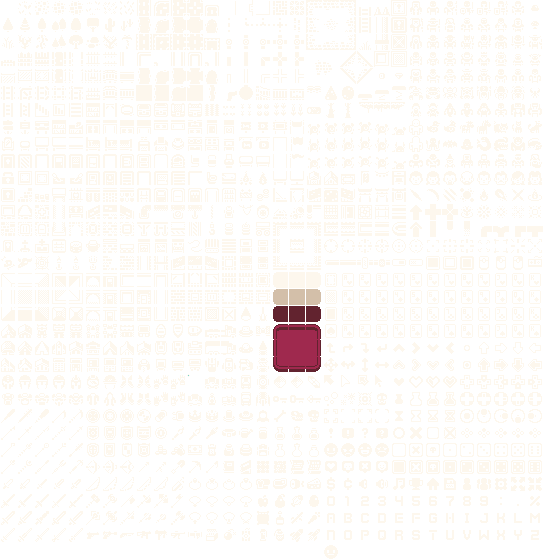
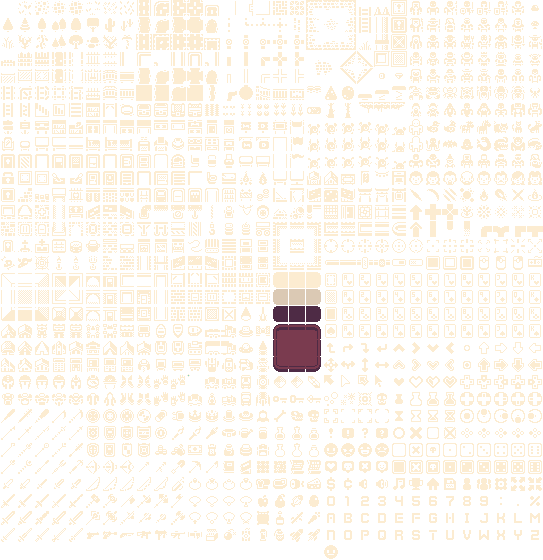
update color enums

Changed region(s): [[0.0, 0.0, 1.0, 1.0]]

diff --git a/src/characters/weapons/StaffWeapon.ts b/src/characters/weapons/StaffWeapon.ts
@@ -45,7 +45,7 @@ export class StaffWeapon extends Weapon {
             this.offsetFromCenter = new Point(-5, 0)
             this.targetSprite1 = Tilesets.instance.oneBit
                 .getTileSource("aoe_target")
-                .filtered(ImageFilters.tint(Color.SUPER_ORANGE))
+                .filtered(ImageFilters.tint(Color.RED_4))
             this.targetSprite2 = Tilesets.instance.oneBit
                 .getTileSource("aoe_target")
                 .filtered(ImageFilters.tint(Color.WHITE))
@@ -120,7 +120,7 @@ export class StaffWeapon extends Weapon {
 
                 // magic-y particles
                 Particles.instance.emitParticle(
-                    Math.random() > 0.5 ? Color.SUPER_ORANGE : Color.RED,
+                    Math.random() > 0.5 ? Color.RED_4 : Color.RED,
                     this.dude.standingPosition.plusY(-26).randomlyShifted(6),
                     this.dude.standingPosition.y,
                     500,
@@ -189,7 +189,7 @@ export class StaffWeapon extends Weapon {
         for (let i = 0; i < 50; i++) {
             const speed = Math.random() > 0.5 ? -0.01 : -0.007
             Particles.instance.emitParticle(
-                Lists.oneOf([Color.BROWN, Color.DARK_BROWN, Color.BLACK, Color.BLACK]),
+                Lists.oneOf([Color.TAUPE_2, Color.TAUPE_1, Color.BLACK, Color.BLACK]),
                 this.attackPosition.randomCircularShift(12).plusY(-4),
                 this.attackPosition.y,
                 500 + Math.random() * 1500,
@@ -201,7 +201,7 @@ export class StaffWeapon extends Weapon {
         // impact crater
         for (let i = 0; i < 25; i++) {
             Particles.instance.emitParticle(
-                Math.random() > 0.7 ? Color.BROWN : Color.DARK_BROWN,
+                Math.random() > 0.7 ? Color.TAUPE_2 : Color.TAUPE_1,
                 this.attackPosition.randomCircularShift(6),
                 GroundRenderer.DEPTH + 1,
                 10_000 + Math.random() * 5_000,
@@ -216,7 +216,7 @@ export class StaffWeapon extends Weapon {
             const x = random.x
             const y = -Math.abs(random.y)
             Particles.instance.emitParticle(
-                Math.random() > 0.5 ? Color.BROWN : Color.LIGHT_BROWN,
+                Math.random() > 0.5 ? Color.TAUPE_2 : Color.TAUPE_3,
                 this.attackPosition.plus(random.times(10)),
                 this.attackPosition.y,
                 100 + Math.random() * 250,

diff --git a/src/ui/Color.ts b/src/ui/Color.ts
@@ -1,16 +1,57 @@
 export enum Color {
-    // nanner colors
-    // TODO rename
+    // nanner pancakes colors
+
+    // each color band starts with black and ends with white
     BLACK = "#2d1e2f",
     WHITE = "#fcecd1",
-    DARK_ORANGE = "#7a3b4f",
-    ORANGE = "#a94b54",
-    SUPER_ORANGE = "#d8725e",
-    LIGHT_ORANGE = "#f09f71",
-    GREEN = "#64b082",
-    DARK_BROWN = "#452e3f",
-    BROWN = "#5d4550",
-    LIGHT_BROWN = "#7b6268",
+
+    // dull browns
+    TAUPE_1 = "#452e3f",
+    TAUPE_2 = "#5d4550",
+    TAUPE_3 = "#7b6268",
+    TAUPE_4 = "#9c807e",
+    TAUPE_5 = "#c3a79c",
+    TAUPE_6 = "#dbc9b4",
+
+    // purples, blues
+    BLUE_1 = "#392945",
+    BLUE_2 = "#3e3b66",
+    BLUE_3 = "#4a5786",
+    BLUE_4 = "#577f9d",
+    BLUE_5 = "#6fb0b7",
+    BLUE_6 = "#a0ddd3",
+
+    // teals, greens
+    GREEN_1 = "#392945",
+    GREEN_2 = "#3e3b66",
+    GREEN_3 = "#3f5b74",
+    GREEN_4 = "#488885",
+    GREEN_5 = "#64b082",
+    GREEN_6 = "#aad795",
+
+    // purples, pinks, flesh tones
+    PINK_1 = "#4e2b45",
+    PINK_2 = "#7c3d64",
+    PINK_3 = "#ab597d",
+    PINK_4 = "#c57f79",
+    PINK_5 = "#d3a084",
+    PINK_6 = "#ebc8a7",
+
+    // reddish-browns, flesh tones
+    BROWN_1 = "#4e2b45",
+    BROWN_2 = "#6a3948",
+    BROWN_3 = "#8f5252",
+    BROWN_4 = "#b87e6c",
+    BROWN_5 = "#d3a084",
+    BROWN_6 = "#ebc8a7",
+
+    // reds, oranges, yellow
+    RED_1 = "#4e2b45",
+    RED_2 = "#7a3b4f",
+    RED_3 = "#a94b54",
+    RED_4 = "#d8725e",
+    RED_5 = "#f09f71",
+    RED_6 = "#f7cf91",
 
     // TODO below this comment
 
@@ -21,22 +62,19 @@ export enum Color {
     DARK_PINKLE = "#8156aa",
     PINKLE = "#c278d0",
     LIGHT_PINKLE = "#f0b3dd",
+    TEAL = "#49a790",
+    DARK_BLUE = "#417089",
+    DARK_DARK_BLUE = "#314152",
+    DARK_GREEN = "#3d734f",
+    LIME = "#97da3f",
+    TAN = "#d3bfa9",
 
+    // used for other shit
+    DARK_RED = "#62232f",
+    RED = "#9f294e",
+    PURPLE = "#5956bd",
     PINK = "#dc4a7b",
     LIGHT_PINK = "#f78697",
-    RED = "#9f294e",
-    DARK_RED = "#62232f",
-    FLESH = "#fccba3",
-    YELLOW = "#facb3e",
-    LIME = "#97da3f",
-    DARK_GREEN = "#3d734f",
-    DARK_DARK_BLUE = "#314152",
-    DARK_BLUE = "#417089",
-    TEAL = "#49a790",
-    BRIGHT_BLUE = "#72d6ce",
-    LIGHT_BLUE = "#5698cc",
-    PURPLE = "#5956bd",
-    TAN = "#d3bfa9",
 }
 
 const toHex = (c: number) => {

diff --git a/src/graphics/WalkingParticles.ts b/src/graphics/WalkingParticles.ts
@@ -61,7 +61,7 @@ export class WalkingParticles extends Component {
             const xRange = this.dude.colliderSize.x - 1
             for (let i = 0; i < 15; i++) {
                 Particles.instance.emitParticle(
-                    Color.BRIGHT_BLUE,
+                    Color.BLUE_6,
                     this.dude.standingPosition.randomlyShifted(xRange, 3).plusY(-2),
                     depth,
                     LIFESPAN_MILLIS,
@@ -70,7 +70,7 @@ export class WalkingParticles extends Component {
                 )
             }
             Particles.instance.emitParticle(
-                Math.random() < 0.7 ? Color.LIGHT_BLUE : Color.WHITE,
+                Math.random() < 0.7 ? Color.BLUE_5 : Color.WHITE,
                 this.dude.standingPosition.randomlyShifted(xRange, 3).plusY(-2),
                 depth + 1,
                 LIFESPAN_MILLIS,
@@ -84,7 +84,7 @@ export class WalkingParticles extends Component {
             }
 
             Particles.instance.emitParticle(
-                Color.LIGHT_BROWN,
+                Color.TAUPE_3,
                 this.dude.standingPosition.randomlyShifted(4, 0).plusY(Math.random() * -5),
                 GroundRenderer.DEPTH + 1,
                 LIFESPAN_MILLIS,

diff --git a/src/ui/PlumePicker.ts b/src/ui/PlumePicker.ts
@@ -16,20 +16,20 @@ export const CUSTOMIZATION_OPTIONS = [
     [Color.DARK_PINK, Color.PINK],
     [Color.PINK, Color.LIGHT_PINK],
     [Color.DARK_RED, Color.RED],
-    [Color.DARK_ORANGE, Color.ORANGE],
-    [Color.ORANGE, Color.LIGHT_ORANGE],
-    [Color.LIGHT_ORANGE, Color.YELLOW],
-    [Color.GREEN, Color.LIME],
-    [Color.DARK_GREEN, Color.GREEN],
+    [Color.RED_2, Color.RED_3],
+    [Color.RED_3, Color.RED_5],
+    [Color.RED_5, Color.RED_6],
+    [Color.GREEN_5, Color.LIME],
+    [Color.DARK_GREEN, Color.GREEN_5],
     [Color.DARK_DARK_BLUE, Color.DARK_BLUE],
-    [Color.DARK_BLUE, Color.LIGHT_BLUE],
-    [Color.TEAL, Color.BRIGHT_BLUE],
+    [Color.DARK_BLUE, Color.BLUE_5],
+    [Color.TEAL, Color.BLUE_6],
     [Color.DARK_PURPLE, Color.PURPLE],
     [Color.DARK_PINKLE, Color.PINKLE],
     [Color.PINKLE, Color.LIGHT_PINKLE],
-    [Color.LIGHT_BROWN, Color.TAN],
-    [Color.BROWN, Color.LIGHT_BROWN],
-    [Color.DARK_BROWN, Color.BROWN],
+    [Color.TAUPE_3, Color.TAN],
+    [Color.TAUPE_2, Color.TAUPE_3],
+    [Color.TAUPE_1, Color.TAUPE_2],
 ]
 
 export class PlumePicker extends Component {

diff --git a/src/graphics/FireParticles.ts b/src/graphics/FireParticles.ts
@@ -5,7 +5,7 @@ import { Color } from "../ui/Color"
 import { Particles } from "./Particles"
 
 const FIRE_DRIFT_DISTANCE = 1.5
-const FIRE_COLORS = [Color.ORANGE, Color.SUPER_ORANGE, Color.LIGHT_ORANGE]
+const FIRE_COLORS = [Color.RED_3, Color.RED_4, Color.RED_5]
 
 export class FireParticles extends RepeatedInvoker {
     private lastPos: Point
@@ -36,7 +36,7 @@ export class FireParticles extends RepeatedInvoker {
         for (let i = 0; i < smokes; i++) {
             const speed = Math.random() > 0.5 ? -0.01 : -0.007
             Particles.instance.emitParticle(
-                Lists.oneOf([Color.BROWN, Color.DARK_BROWN, Color.BLACK, Color.BLACK]),
+                Lists.oneOf([Color.TAUPE_2, Color.TAUPE_1, Color.BLACK, Color.BLACK]),
                 fireBase.randomCircularShift(1 + size / 2).plusY(-1),
                 depth - 1,
                 500 + Math.random() * 1500,

diff --git a/src/ui/TradeMenu.ts b/src/ui/TradeMenu.ts
@@ -188,7 +188,7 @@ export class TradeMenu extends Component {
                 new Point(9, 1).plus(topLeft).plus(this.coinsOffset),
                 TEXT_SIZE,
                 TEXT_FONT,
-                Color.YELLOW,
+                Color.RED_6,
                 UIStateManager.UI_SPRITE_DEPTH
             )
         )
@@ -286,7 +286,7 @@ export class TradeMenu extends Component {
             const coinIcon = this.getItemIcon(Item.COIN)
             let ingredientIcon: StaticSpriteSource = this.tintedIcon(
                 coinIcon,
-                itemColor === Color.WHITE ? Color.YELLOW : itemColor
+                itemColor === Color.WHITE ? Color.RED_6 : itemColor
             ) // make coin icon yellow on hover
             this.context.fillStyle = itemColor
             const countStr = `${sale.price}`

diff --git a/src/world/elements/Queequeg.ts b/src/world/elements/Queequeg.ts
@@ -135,7 +135,7 @@ export class Queequeg extends Simulatable {
                 for (let i = 0; i < 10; i++) {
                     const size = Math.ceil(Math.random() * 3)
                     Particles.instance.emitParticle(
-                        Lists.oneOf([Color.WHITE, Color.BRIGHT_BLUE]),
+                        Lists.oneOf([Color.WHITE, Color.BLUE_6]),
                         this.position.plus(
                             Lists.oneOf([
                                 new Point(35 + Math.random() * 10, 35),

diff --git a/src/ui/MiniMap.ts b/src/ui/MiniMap.ts
@@ -129,7 +129,7 @@ export class MiniMap extends Component {
                     const hex = getHex(imageData.data[i], imageData.data[i + 1], imageData.data[2])
                     hexStrings.push(hex)
                     // weigh other colors higher than grass color to show non-nature things on the map
-                    if (hex !== Color.GREEN) {
+                    if (hex !== Color.GREEN_5) {
                         hexStrings.push(hex)
                     }
                 }

diff --git a/src/ui/HUD.ts b/src/ui/HUD.ts
@@ -15,7 +15,7 @@ import { MiniMap } from "./MiniMap"
 import { OffScreenIndicatorManager } from "./OffScreenIndicatorManager"
 import { UIStateManager } from "./UIStateManager"
 
-const POISONED_HEART_FILTER = ImageFilters.recolor(Color.SUPER_ORANGE, Color.PURPLE)
+const POISONED_HEART_FILTER = ImageFilters.recolor(Color.RED_4, Color.PURPLE)
 
 export class HUD {
     static get instance() {

diff --git a/src/ui/MainMenuButton.ts b/src/ui/MainMenuButton.ts
@@ -76,7 +76,7 @@ export class MainMenuButton extends Component {
                 this.position.plusX(-this.width / 2).plusX(offset),
                 TEXT_SIZE,
                 TEXT_FONT,
-                this.hovering ? Color.WHITE : Color.GREEN,
+                this.hovering ? Color.WHITE : Color.GREEN_5,
                 UIStateManager.UI_SPRITE_DEPTH
             ),
         ]

diff --git a/src/ui/InventoryDisplay.ts b/src/ui/InventoryDisplay.ts
@@ -330,7 +330,7 @@ export class InventoryDisplay extends Component {
                     new Point(9, 1).plus(this.offset).plus(this.coinsOffset),
                     TEXT_SIZE,
                     TEXT_FONT,
-                    Color.YELLOW,
+                    Color.RED_6,
                     UIStateManager.UI_SPRITE_DEPTH
                 )
             ),

diff --git a/src/ui/DudeInteractIndicator.ts b/src/ui/DudeInteractIndicator.ts
@@ -15,7 +15,7 @@ const getIcon = (indicator: string) => {
         case DudeInteractIndicator.ATTACKING_NOW:
             return Tilesets.instance.oneBit
                 .getTileAt(new Point(27, 20))
-                .filtered(ImageFilters.tint(Color.SUPER_ORANGE))
+                .filtered(ImageFilters.tint(Color.RED_4))
     }
 }
 
